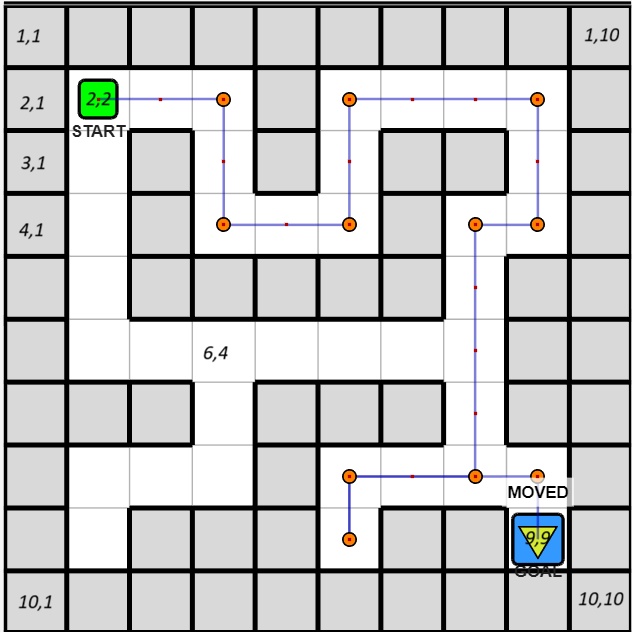
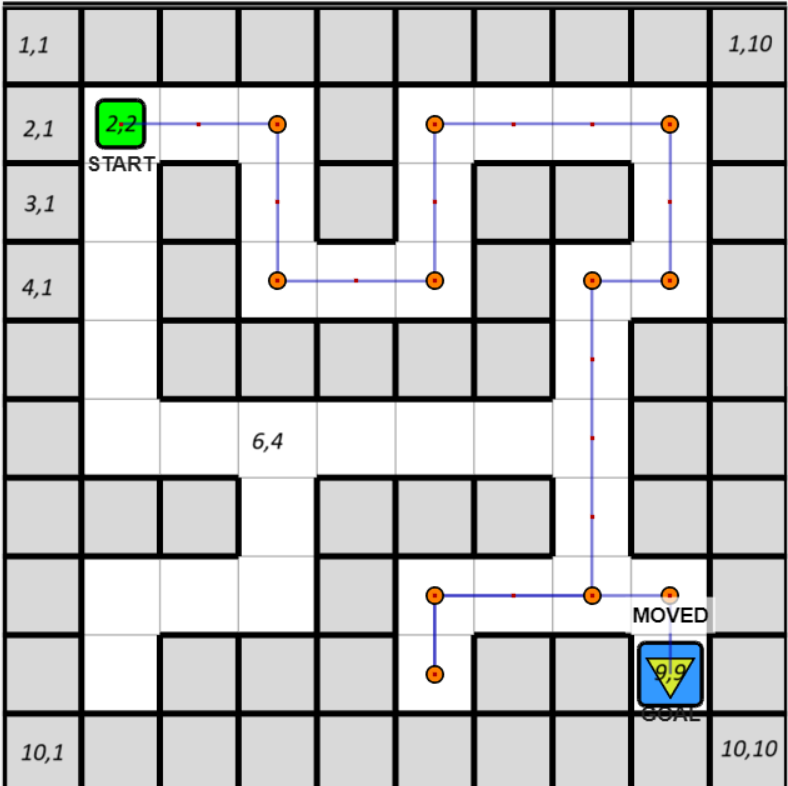
Uploaded Images

Changed region(s): [[0.0, 0.0, 1.0, 1.0]]

diff --git a/README.md b/README.md
@@ -135,8 +135,12 @@ Understanded the commented lines to understand in detail.
   - Random maze solving capabilities (on average performance, will be checked on multiple mazes)
   - Code quality and structure
   - Algorithm creativity and novelty
-  - Shortest path finding achievement, save final locations on array
+  - Shortest path finding achievement (More like the bot is exploring dead ends to, save in array only the main path(fastest) removing the dead end paths)
   - Time to complete
+
+## Saved path should be ideally something like:
+![Result File](https://github.com/SikandarAman/MazeSolver_PS/blob/main/Images/Saved.png)
+
 
 ## 📝 Result Files
 
